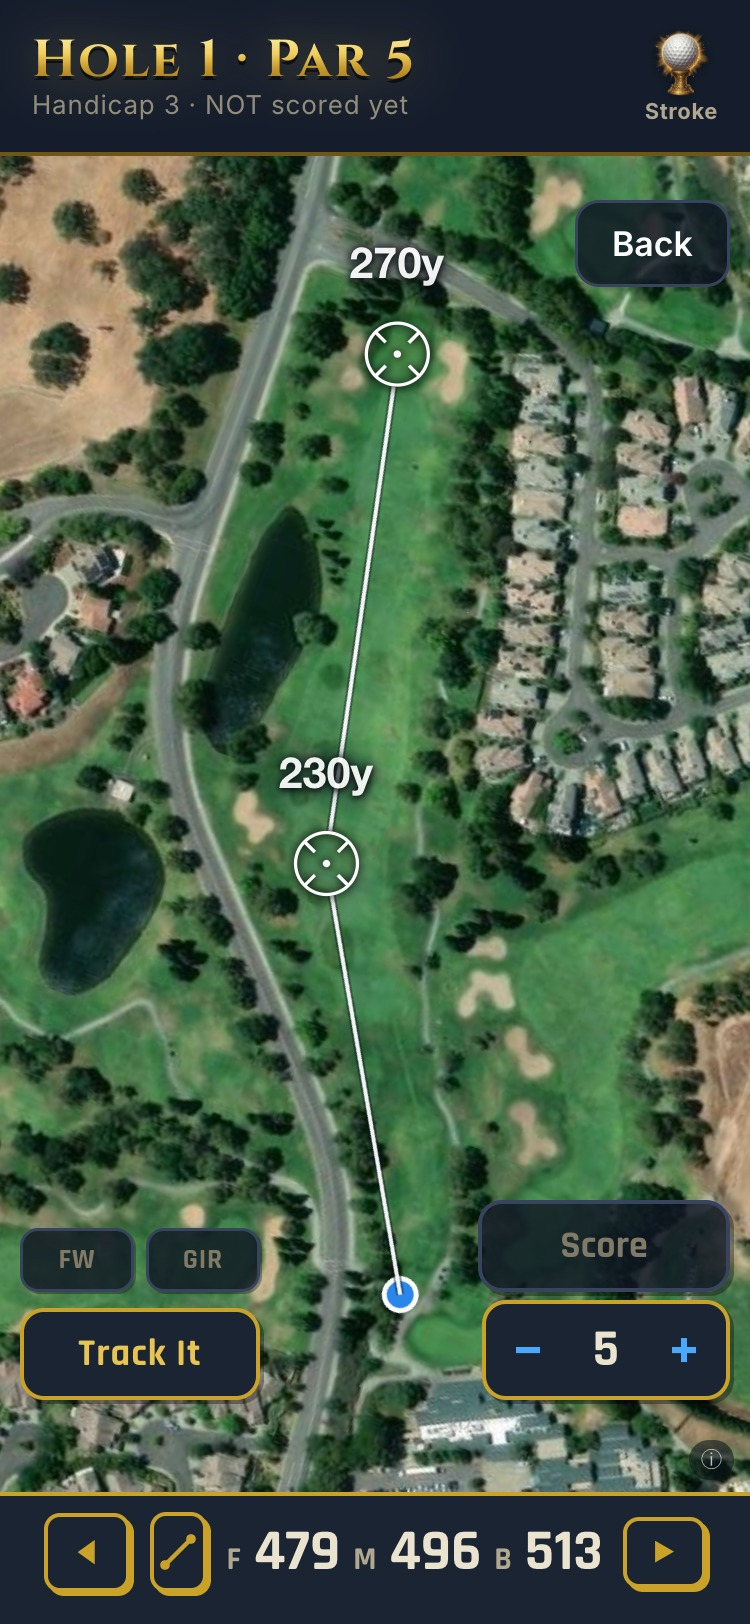
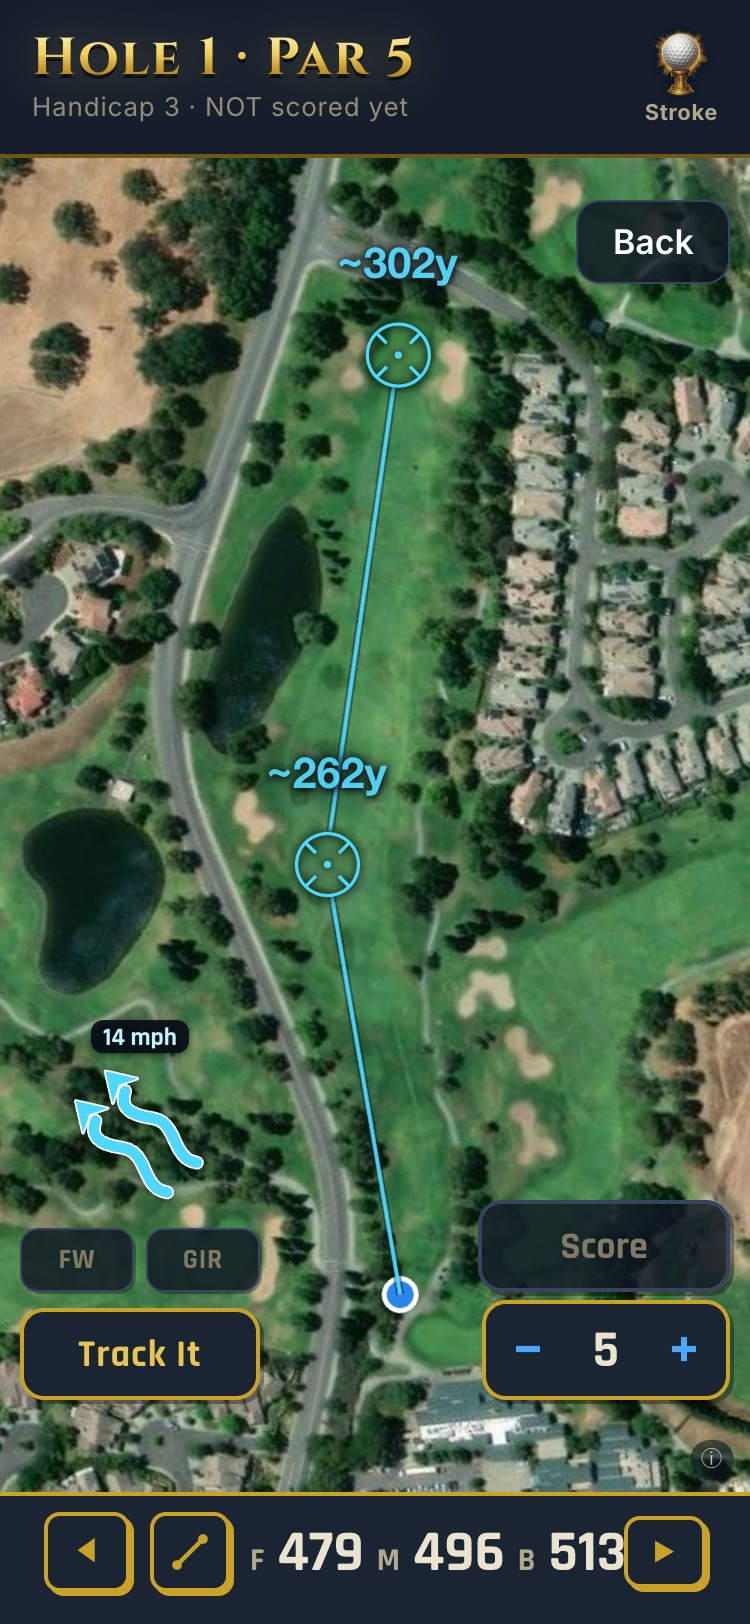
Homepage GPS shot recaptured with wind; a wind line in the beat copy
The screenshot predated the wind work, so it showed none of it. Re-shot
from the live app the same way as before — headless Chrome over CDP,
Rancho Solano hole 1, GPS fixed to that hole's tee from the baked geo,
aim point on its own dogleg vertex — with wind mode on and the wind
pulled by the app's OWN windFetch() against api.weather.gov. Nothing
injected: 14 mph from the south-west is Rancho's real NWS grid forecast,
and Travis AFB was correctly rejected at 11.1 km (past the 8 km station
rule), so the number comes from the course's own cell. The clock stands
at the windiest hour of that same fetch — tomorrow 11am — because two
arrows needs 8+ mph and tonight is 7.

Copy: a second paragraph on wind, written to the length every other beat
on this page uses (120-201 chars) rather than the essay it started as,
and with no <strong>, which appears nowhere else in the body. Eyebrow
now reads "GPS hole maps · live wind". Alt text describes the arrows and
the plays-like yardages. One new rule, .beat .txt p+p, since this is the
first beat to run two paragraphs.

diff --git a/index.html b/index.html
@@ -128,6 +128,7 @@ h1,h2,h3,.disp{font-family:var(--disp);margin:0;letter-spacing:.5px}
 /* the GPS beat: copy in a slim column, the phone gets the room and grows */
 .beat.gpsbeat{grid-template-columns:minmax(0,.8fr) minmax(0,1.2fr);gap:44px}
 .beat.gpsbeat .txt p{max-width:400px}
+.beat .txt p+p{margin-top:14px}   /* first beat to run two paragraphs (wind) */
 .beat.gpsbeat .phone{width:min(360px,34vw)}
 .phone img{display:block;width:100%;height:auto;border-radius:38px;border:9px solid #0a0d14;
   box-shadow:0 0 0 1.5px #2a3550,0 30px 70px rgba(0,0,0,.7),0 0 60px rgba(74,168,255,.12);background:#000}
@@ -273,11 +274,12 @@ th{color:var(--muted);font-size:11px;letter-spacing:1.5px;text-transform:upperca
     </div>
 
     <div class="beat off1 gpsbeat">
-      <div class="txt rv l"><div class=eye>GPS hole maps</div>
+      <div class="txt rv l"><div class=eye>GPS hole maps · live wind</div>
         <h2>Know the carry <em>before you pull the club</em></h2>
-        <p>Satellite view with live front · middle · back numbers and a tap-anywhere rangefinder on mapped courses. Then bet on it.</p></div>
+        <p>Satellite view with live front · middle · back numbers and a tap-anywhere rangefinder on mapped courses. Then bet on it.</p>
+        <p>It plays the wind, too. National Weather Service numbers for your course's own grid cell — not an airport down the valley — pulled at the first tee and kept all day. Tap once: 270 into a 14&nbsp;mph south-wester plays 302.</p></div>
       <div class="phone rv r">
-        <img src="/assets/gps-rancho-h1.jpg" alt="Battle Tees GPS map — hole 1 at Rancho Solano GC: satellite view, rangefinder line to the green, front 479 · middle 496 · back 513 yards">
+        <img src="/assets/gps-rancho-h1.jpg" alt="Battle Tees GPS map — hole 1 at Rancho Solano GC: satellite view with a rangefinder line to the green, front 479 · middle 496 · back 513 yards, and wind mode on: two blue arrows showing 14 mph from the south-west, with the two legs of the line playing like 302 and 262 yards into it">
         <div class=pcap><i>RANCHO SOLANO GC</i> · hole 1 · live from the app</div>
       </div>
     </div>

diff --git a/app/sw.js b/app/sw.js
@@ -1,7 +1,7 @@
 // Wolf service worker — offline cache + auto-update (stale-while-revalidate).
 // The app loads instantly from cache and refreshes in the background; a new
 // version appears the next time it's opened while online.
-const CACHE = 'battletees-1788404324';
+const CACHE = 'battletees-1788406763';
 // Offline course-map pack: satellite tiles cached cache-first, SURVIVES app
 // updates (excluded from the activate cleanup below).
 const TILES = 'bt-tiles';

diff --git a/app/index.html b/app/index.html
@@ -406,7 +406,7 @@
 <script>
 'use strict';
 const LS_KEY='wolfGolfV1';
-const BUILD='1788404324';
+const BUILD='1788406763';
 const HOLES=18;
 
 // Built-in courses — data from USGA/GHIN, current ratings and stroke allocations.
